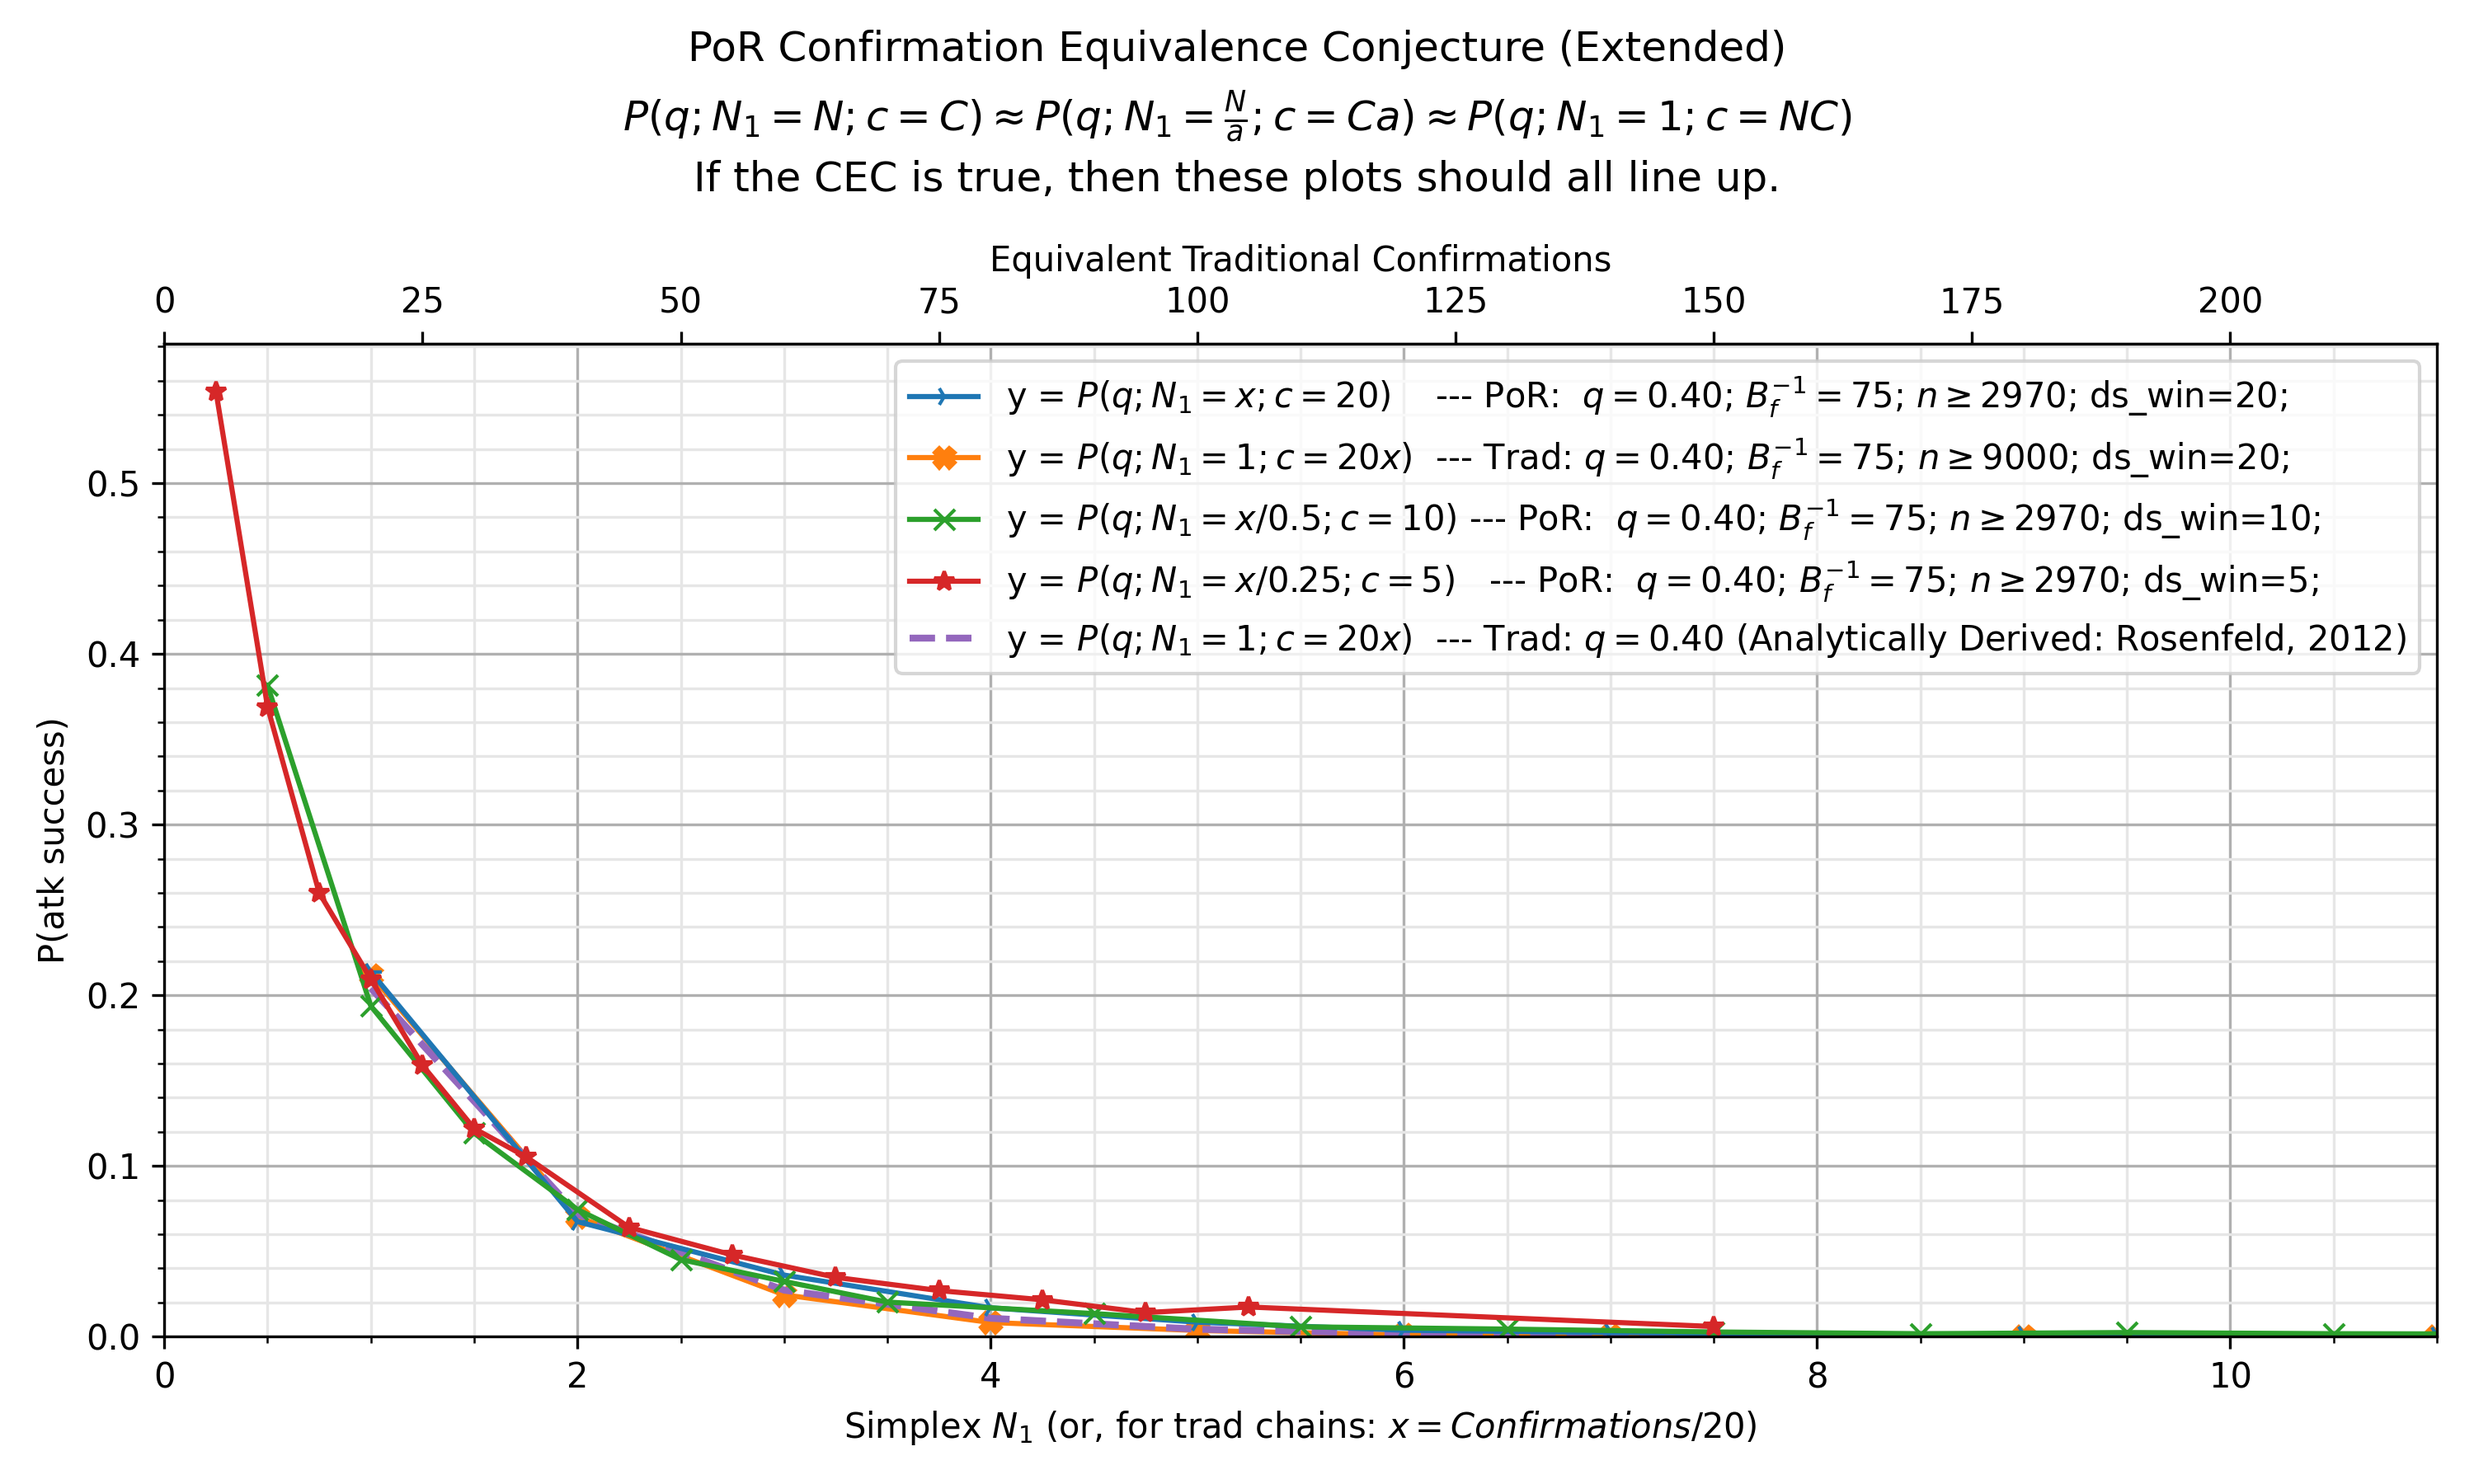
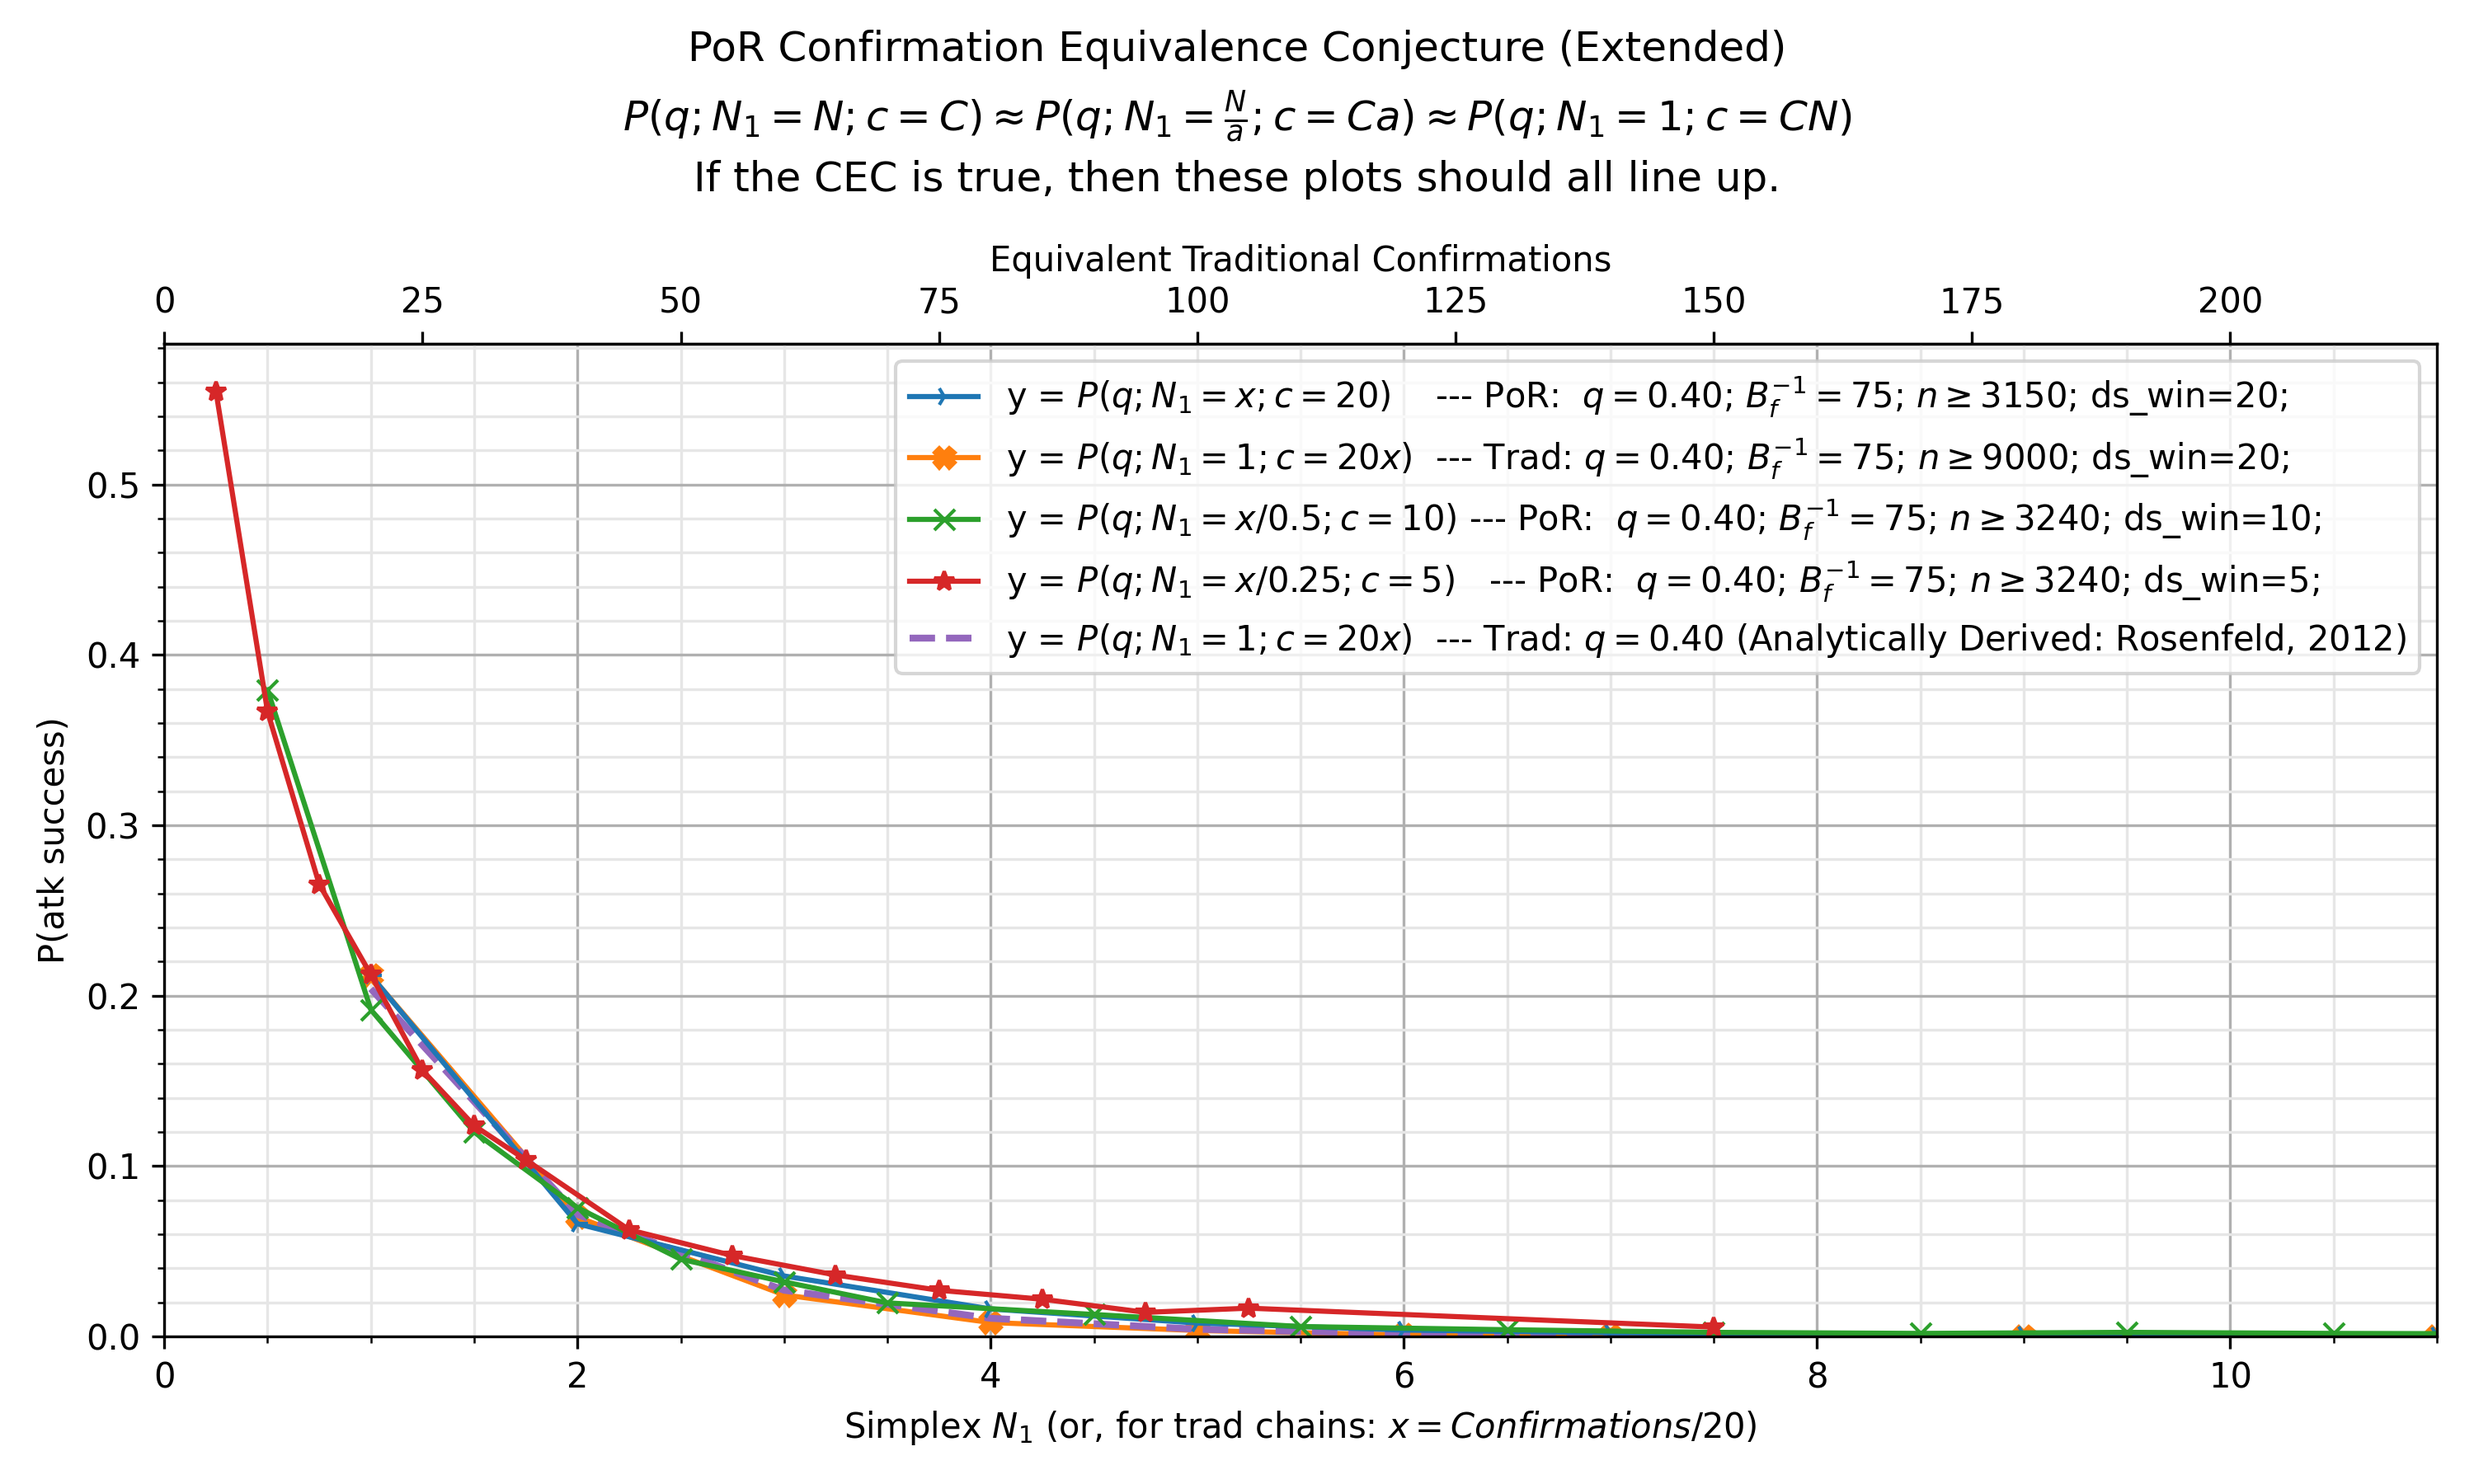
tweak cec ext2

diff --git a/experiments/por-sim-rs/bin/py_stats.py b/experiments/por-sim-rs/bin/py_stats.py
@@ -719,7 +719,7 @@ def main(filter_fname: Optional[str], n_jobs: int):
 
     CEC_TITLE_STR = "$P(q; N_1 = N; c = C) \\approx P(q; N_1 = 1; c = NC)$"
     CEC_EXT_TITLE_STR = "$P(q; N_1 = N; c = C) \\approx P(q; N_1 = \\frac{{N}}{{2}}; c = 2C)$"
-    CEC_EXT2_TITLE_STR = "$P(q; N_1 = N; c = C) \\approx P(q; N_1 = \\frac{{N}}{{a}}; c = Ca) \\approx P(q; N_1 = 1; c = NC)$"
+    CEC_EXT2_TITLE_STR = "$P(q; N_1 = N; c = C) \\approx P(q; N_1 = \\frac{{N}}{{a}}; c = Ca) \\approx P(q; N_1 = 1; c = CN)$"
 
 
     jobs_to_save: list[SavePlot] = [
